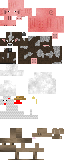
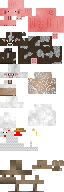
animals: give the sheep its face back
1.12.2 draws a sheep twice: the shaved sheep from sheep.png, which is where the
face lives, and then the wool coat from sheep_fur.png over the top with its head
stopped two pixels short at the front. The wool texture alone has no eyes on it,
so drawing only that layer gave a faceless white blob. Parts can now name their
own skin, and the sheep carries both halves.

diff --git a/games/apricity-eagler/js/mobs.js b/games/apricity-eagler/js/mobs.js
@@ -125,7 +125,7 @@ function rotate(v, rx, ry) {
  * a straight port of ModelBox and TexturedQuad, so a box shows exactly the patch
  * of skin it shows in game — which is the whole point of copying the textures.
  */
-function box(uv, size, centre, { grow = 0, rx = 0, ry = 0 } = {}) {
+function box(uv, size, centre, { grow = 0, rx = 0, ry = 0, texture = null } = {}) {
   const [w, h, d] = size;
   const hw = w / 2 + grow;
   const hh = h / 2 + grow;
@@ -186,7 +186,7 @@ function box(uv, size, centre, { grow = 0, rx = 0, ry = 0 } = {}) {
 
     faces.push({ pos, uv: uvCorners, shade });
   }
-  return { at: at(...centre), size, faces };
+  return { at: at(...centre), size, faces, texture };
 }
 
 /**
@@ -230,18 +230,28 @@ const MODELS = {
       box([0, 16], [4, 12, 4], [4, 18, -6]),
     ],
   },
-  // A sheep in game is the wool coat, ModelSheep2, over the shaved skin. The
-  // wool is thinner than the skin it covers, which is what the grow is for.
+  // 1.12.2 draws a sheep twice: the shaved sheep, which carries the face, and
+  // then the wool coat over it as a render layer. The coat's head is two pixels
+  // shorter at the front, which is the only reason the face still shows.
   sheep: {
-    texture: 'sheep_fur',
+    texture: 'sheep',
     scale: 1,
     parts: [
-      box([0, 0], [6, 6, 8], [0, 5, -10], { grow: 0.6 }),
-      box([28, 8], [8, 16, 6], [0, 9, 0], { grow: 1.75, rx: HALF_TURN }),
+      // ModelSheep2, the skin: head, body and full-length legs.
+      box([0, 0], [6, 6, 8], [0, 5, -10]),
+      box([28, 8], [8, 16, 6], [0, 9, 0], { rx: HALF_TURN }),
       box([0, 16], [4, 12, 4], [-3, 18, 7]),
       box([0, 16], [4, 12, 4], [3, 18, 7]),
       box([0, 16], [4, 12, 4], [-3, 18, -5]),
       box([0, 16], [4, 12, 4], [3, 18, -5]),
+      // ModelSheep1, the wool layer: same shapes, inflated, with a short head
+      // and legs that only cover the fluffy top half.
+      box([0, 0], [6, 6, 6], [0, 5, -9], { grow: 0.6, texture: 'sheep_fur' }),
+      box([28, 8], [8, 16, 6], [0, 9, 0], { grow: 1.75, rx: HALF_TURN, texture: 'sheep_fur' }),
+      box([0, 16], [4, 6, 4], [-3, 15, 7], { grow: 0.5, texture: 'sheep_fur' }),
+      box([0, 16], [4, 6, 4], [3, 15, 7], { grow: 0.5, texture: 'sheep_fur' }),
+      box([0, 16], [4, 6, 4], [-3, 15, -5], { grow: 0.5, texture: 'sheep_fur' }),
+      box([0, 16], [4, 6, 4], [3, 15, -5], { grow: 0.5, texture: 'sheep_fur' }),
     ],
   },
   chicken: {
@@ -292,6 +302,7 @@ function scaledParts(model) {
   const k = model.scale / 16;
   cached = model.parts.map((part) => ({
     at: part.at,
+    texture: part.texture,
     faces: part.faces.map((face) => ({
       shade: face.shade,
       pos: face.pos.map(([x, y, z]) => [x * k, y * k, z * k]),
@@ -447,7 +458,7 @@ export class Mob {
     for (const part of scaledParts(model)) {
       const [px, py, pz] = part.at;
       out.push({
-        mob: model.texture,
+        mob: part.texture ?? model.texture,
         x: this.x + (px * cos - pz * sin) * k,
         y: this.y + py * k,
         z: this.z + (px * sin + pz * cos) * k,

diff --git a/games/apricity-eagler/README.md b/games/apricity-eagler/README.md
@@ -66,7 +66,7 @@ into `assets/`:
 | `assets/hud-xp-bg.png` / `hud-xp-fill.png` | the XP bar sliced out of that sheet |
 | `assets/font.png` + `font.json` | the pack's 8×8 bitmap font, with measured glyph advances |
 | `assets/sounds/*.ogg` | the pack's dig samples: four variants each for stone, wood, grass, sand, gravel, cloth and snow, plus the UI click |
-| `assets/mob/*.png` | the pack's own 64×32 animal skins, copied as-is: `pig`, `cow`, `sheep_fur`, `chicken`, `rabbit` |
+| `assets/mob/*.png` | the pack's own 64×32 animal skins, copied as-is: `pig`, `cow`, `sheep`, `sheep_fur`, `chicken`, `rabbit` |
 | `assets/mob-atlas.png` + `mob-atlas.json` | those skins stacked into one sheet for the animal renderer, with each animal's slot |
 
 1.12.2 stores grass, leaves, vines and lily pads as **greyscale** and colours
